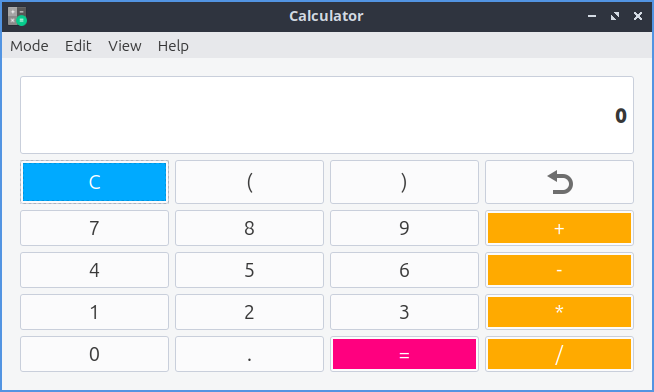
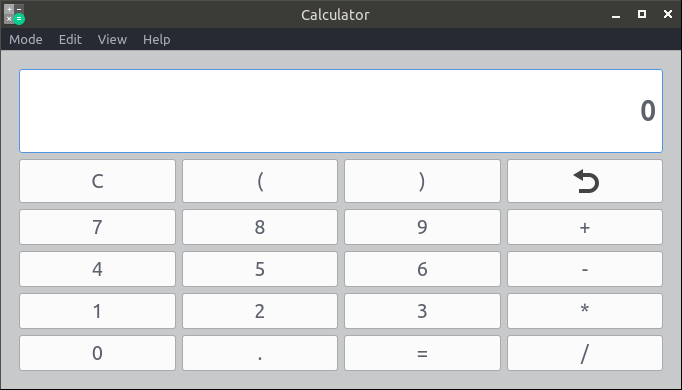
Removed color from buttons (as some themes do not support it), increased text size in the result line

diff --git a/src/pyqulator/ui.py b/src/pyqulator/ui.py
@@ -33,7 +33,7 @@ class Ui_MainWindow(object):
         sizePolicy.setHeightForWidth(self.line_result.sizePolicy().hasHeightForWidth())
         self.line_result.setSizePolicy(sizePolicy)
         font = QtGui.QFont()
-        font.setPointSize(15)
+        font.setPointSize(20)
         font.setBold(True)
         self.line_result.setFont(font)
         self.line_result.setAlignment(QtCore.Qt.AlignmentFlag.AlignRight|QtCore.Qt.AlignmentFlag.AlignTrailing|QtCore.Qt.AlignmentFlag.AlignVCenter)
@@ -51,8 +51,7 @@ class Ui_MainWindow(object):
         font = QtGui.QFont()
         font.setPointSize(15)
         self.btn_equal.setFont(font)
-        self.btn_equal.setStyleSheet("color: rgb(255, 255, 255);\n"
-"background-color: rgb(255, 0, 127);")
+        self.btn_equal.setStyleSheet("")
         self.btn_equal.setObjectName("btn_equal")
         self.gridLayout_3.addWidget(self.btn_equal, 4, 2, 1, 1)
         self.btn_divide = QtWidgets.QPushButton(parent=self.standard_page)
@@ -64,8 +63,7 @@ class Ui_MainWindow(object):
         font = QtGui.QFont()
         font.setPointSize(15)
         self.btn_divide.setFont(font)
-        self.btn_divide.setStyleSheet("color: rgb(255, 255, 255);\n"
-"background-color: rgb(255, 170, 0);")
+        self.btn_divide.setStyleSheet("")
         self.btn_divide.setObjectName("btn_divide")
         self.gridLayout_3.addWidget(self.btn_divide, 4, 3, 1, 1)
         self.btn_leftbracket = QtWidgets.QPushButton(parent=self.standard_page)
@@ -115,8 +113,7 @@ class Ui_MainWindow(object):
         font = QtGui.QFont()
         font.setPointSize(15)
         self.btn_plus.setFont(font)
-        self.btn_plus.setStyleSheet("color: rgb(255, 255, 255);\n"
-"background-color: rgb(255, 170, 0);")
+        self.btn_plus.setStyleSheet("")
         self.btn_plus.setObjectName("btn_plus")
         self.gridLayout_3.addWidget(self.btn_plus, 1, 3, 1, 1)
         self.btn_9 = QtWidgets.QPushButton(parent=self.standard_page)
@@ -161,8 +158,7 @@ class Ui_MainWindow(object):
         font = QtGui.QFont()
         font.setPointSize(15)
         self.btn_minus.setFont(font)
-        self.btn_minus.setStyleSheet("color: rgb(255, 255, 255);\n"
-"background-color: rgb(255, 170, 0);")
+        self.btn_minus.setStyleSheet("")
         self.btn_minus.setObjectName("btn_minus")
         self.gridLayout_3.addWidget(self.btn_minus, 2, 3, 1, 1)
         self.btn_clear = QtWidgets.QPushButton(parent=self.standard_page)
@@ -174,8 +170,7 @@ class Ui_MainWindow(object):
         font = QtGui.QFont()
         font.setPointSize(15)
         self.btn_clear.setFont(font)
-        self.btn_clear.setStyleSheet("color: rgb(255, 255, 255);\n"
-"background-color: rgb(0, 170, 255);")
+        self.btn_clear.setStyleSheet("")
         self.btn_clear.setObjectName("btn_clear")
         self.gridLayout_3.addWidget(self.btn_clear, 0, 0, 1, 1)
         self.btn_2 = QtWidgets.QPushButton(parent=self.standard_page)
@@ -220,8 +215,7 @@ class Ui_MainWindow(object):
         font = QtGui.QFont()
         font.setPointSize(15)
         self.btn_multiple.setFont(font)
-        self.btn_multiple.setStyleSheet("color: rgb(255, 255, 255);\n"
-"background-color: rgb(255, 170, 0);")
+        self.btn_multiple.setStyleSheet("")
         self.btn_multiple.setObjectName("btn_multiple")
         self.gridLayout_3.addWidget(self.btn_multiple, 3, 3, 1, 1)
         self.btn_0 = QtWidgets.QPushButton(parent=self.standard_page)
@@ -366,8 +360,7 @@ class Ui_MainWindow(object):
         font = QtGui.QFont()
         font.setPointSize(15)
         self.btn_multiple_2.setFont(font)
-        self.btn_multiple_2.setStyleSheet("color: rgb(255, 255, 255);\n"
-"background-color: rgb(255, 170, 0);")
+        self.btn_multiple_2.setStyleSheet("")
         self.btn_multiple_2.setObjectName("btn_multiple_2")
         self.gridLayout_5.addWidget(self.btn_multiple_2, 6, 3, 1, 1)
         self.btn_7_2 = QtWidgets.QPushButton(parent=self.engineer_page)
@@ -401,8 +394,7 @@ class Ui_MainWindow(object):
         font = QtGui.QFont()
         font.setPointSize(15)
         self.btn_clear_2.setFont(font)
-        self.btn_clear_2.setStyleSheet("color: rgb(255, 255, 255);\n"
-"background-color: rgb(0, 170, 255);")
+        self.btn_clear_2.setStyleSheet("")
         self.btn_clear_2.setObjectName("btn_clear_2")
         self.gridLayout_5.addWidget(self.btn_clear_2, 2, 0, 1, 1)
         self.btn_5_2 = QtWidgets.QPushButton(parent=self.engineer_page)
@@ -460,8 +452,7 @@ class Ui_MainWindow(object):
         font = QtGui.QFont()
         font.setPointSize(15)
         self.btn_equal_2.setFont(font)
-        self.btn_equal_2.setStyleSheet("color: rgb(255, 255, 255);\n"
-"background-color: rgb(255, 0, 127);")
+        self.btn_equal_2.setStyleSheet("")
         self.btn_equal_2.setObjectName("btn_equal_2")
         self.gridLayout_5.addWidget(self.btn_equal_2, 7, 2, 1, 1)
         self.btn_2_2 = QtWidgets.QPushButton(parent=self.engineer_page)
@@ -495,8 +486,7 @@ class Ui_MainWindow(object):
         font = QtGui.QFont()
         font.setPointSize(15)
         self.btn_minus_2.setFont(font)
-        self.btn_minus_2.setStyleSheet("color: rgb(255, 255, 255);\n"
-"background-color: rgb(255, 170, 0);")
+        self.btn_minus_2.setStyleSheet("")
         self.btn_minus_2.setObjectName("btn_minus_2")
         self.gridLayout_5.addWidget(self.btn_minus_2, 5, 3, 1, 1)
         self.btn_6_2 = QtWidgets.QPushButton(parent=self.engineer_page)
@@ -519,8 +509,7 @@ class Ui_MainWindow(object):
         font = QtGui.QFont()
         font.setPointSize(15)
         self.btn_divide_2.setFont(font)
-        self.btn_divide_2.setStyleSheet("color: rgb(255, 255, 255);\n"
-"background-color: rgb(255, 170, 0);")
+        self.btn_divide_2.setStyleSheet("")
         self.btn_divide_2.setObjectName("btn_divide_2")
         self.gridLayout_5.addWidget(self.btn_divide_2, 7, 3, 1, 1)
         self.btn_4_2 = QtWidgets.QPushButton(parent=self.engineer_page)
@@ -627,8 +616,7 @@ class Ui_MainWindow(object):
         font = QtGui.QFont()
         font.setPointSize(15)
         self.btn_plus_2.setFont(font)
-        self.btn_plus_2.setStyleSheet("color: rgb(255, 255, 255);\n"
-"background-color: rgb(255, 170, 0);")
+        self.btn_plus_2.setStyleSheet("")
         self.btn_plus_2.setObjectName("btn_plus_2")
         self.gridLayout_5.addWidget(self.btn_plus_2, 4, 3, 1, 1)
         self.btn_0_2 = QtWidgets.QPushButton(parent=self.engineer_page)
@@ -650,7 +638,7 @@ class Ui_MainWindow(object):
         sizePolicy.setHeightForWidth(self.line_result_2.sizePolicy().hasHeightForWidth())
         self.line_result_2.setSizePolicy(sizePolicy)
         font = QtGui.QFont()
-        font.setPointSize(15)
+        font.setPointSize(20)
         font.setBold(True)
         self.line_result_2.setFont(font)
         self.line_result_2.setStyleSheet("")

diff --git a/README.md b/README.md
@@ -46,8 +46,6 @@ pyqulator
 Or run it from the applications menu (it doesn't work from PyPi).
 
 ## Screenshots
-Screenshots taken on Lubuntu 24.10.
-
 *Standard mode*
 
 ![Screenshot](https://raw.githubusercontent.com/limafresh/pyqulator/main/screenshots/screenshot1.png)
